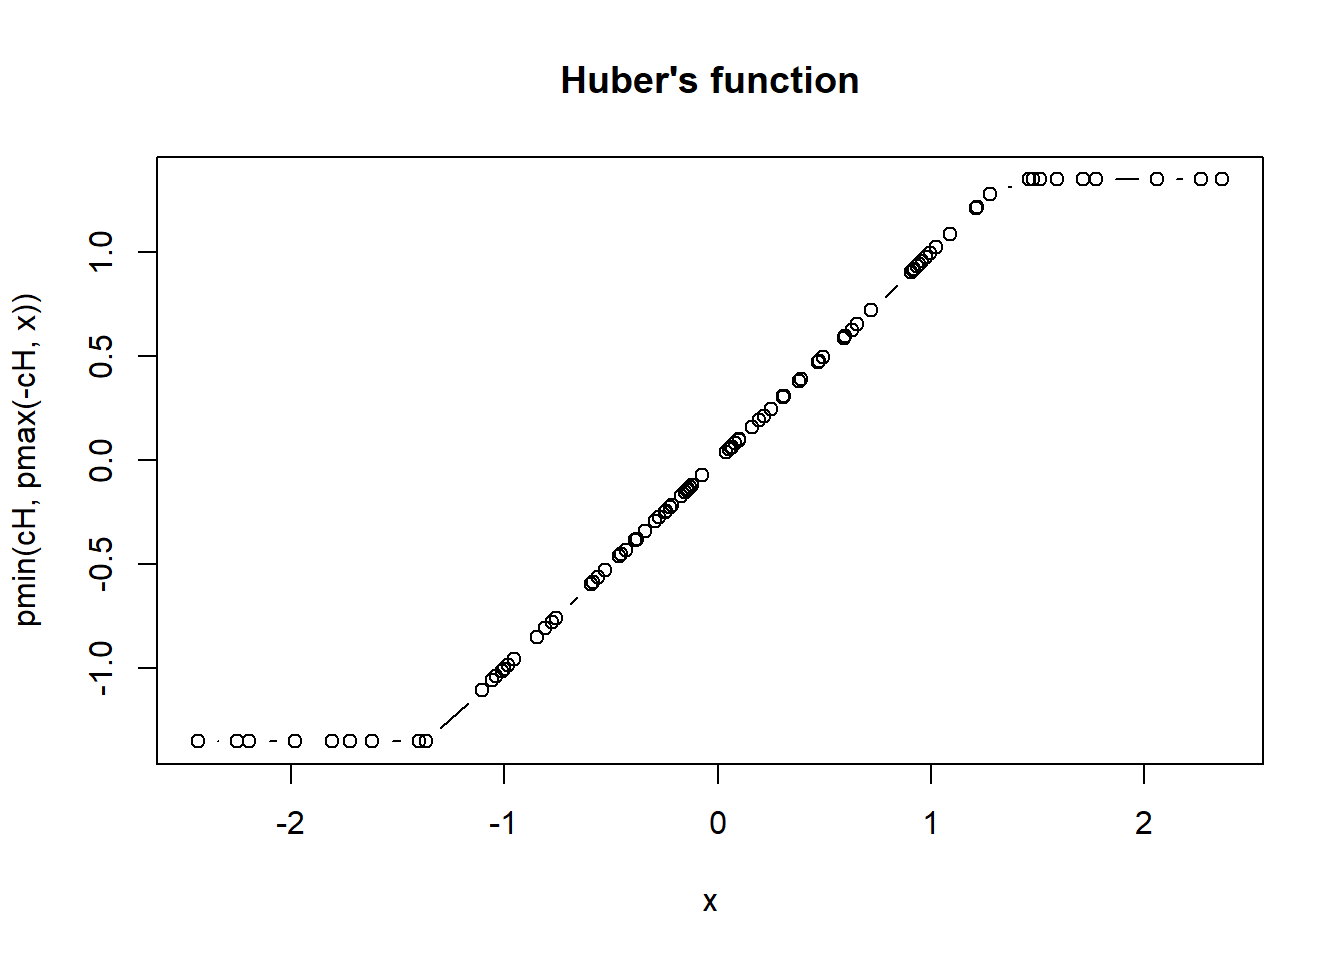
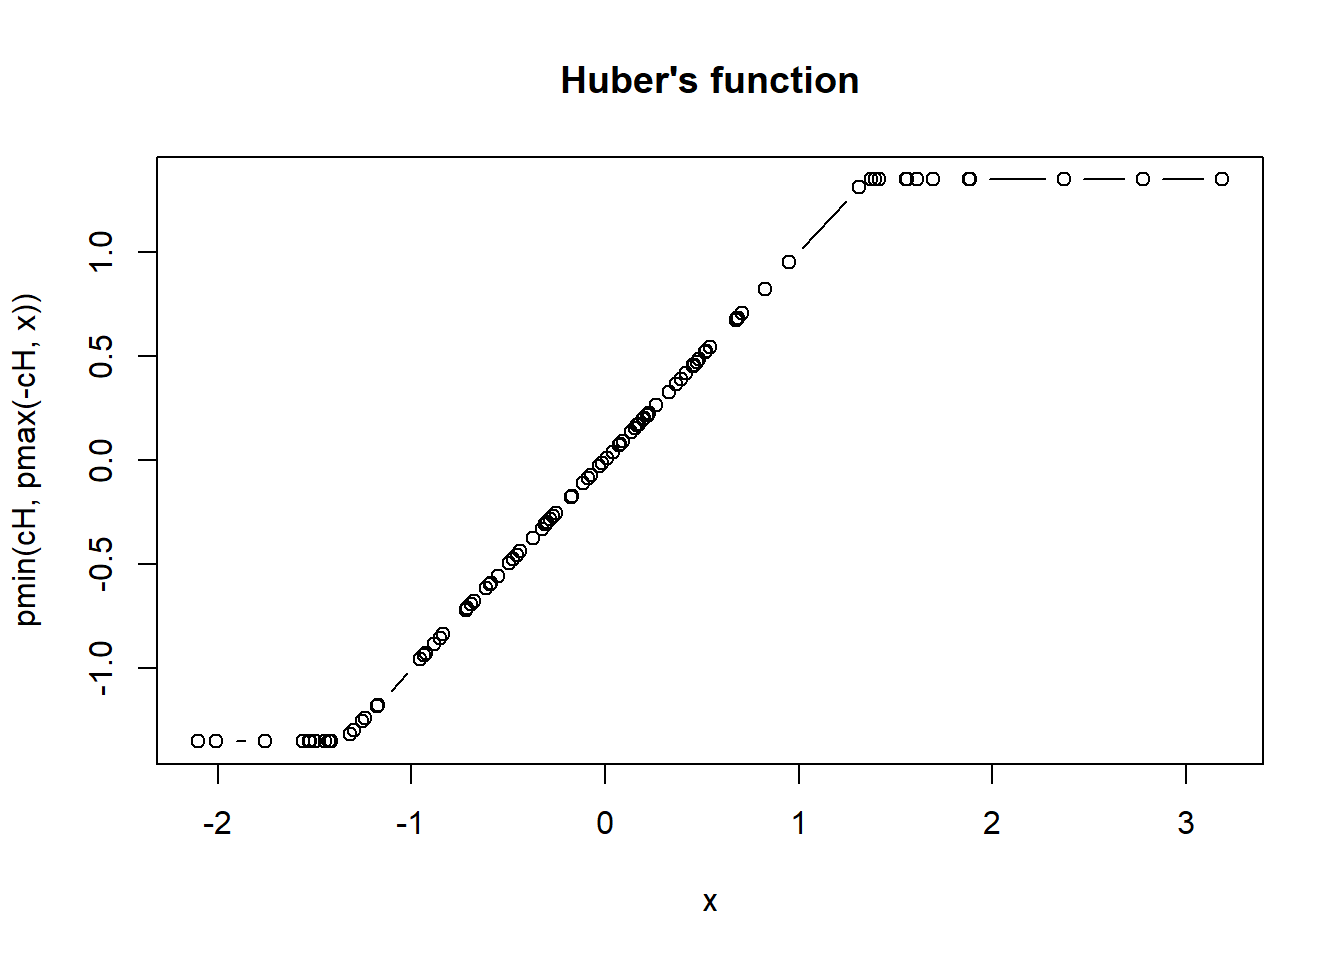
ggplot test3

diff --git a/docs/intro.html b/docs/intro.html
@@ -323,11 +323,11 @@ Tente atribuir “Engenharia Agrícola”em x.</p>
 ## min&gt; x &lt;- sort(rnorm(100));  cH &lt;- 1.35
 ## 
 ## min&gt; pmin(cH, quantile(x)) # no names
-## [1] -2.43558245 -0.45479514  0.05790952  0.76696993  1.35000000
+## [1] -2.1030672 -0.7130723 -0.0499074  0.4615057  1.3500000
 ## 
 ## min&gt; pmin(quantile(x), cH) # has names
-##          0%         25%         50%         75%        100% 
-## -2.43558245 -0.45479514  0.05790952  0.76696993  1.35000000 
+##         0%        25%        50%        75%       100% 
+## -2.1030672 -0.7130723 -0.0499074  0.4615057  1.3500000 
 ## 
 ## min&gt; plot(x, pmin(cH, pmax(-cH, x)), type = &quot;b&quot;, main =  &quot;Huber&#39;s function&quot;)</code></pre>
 <p><img src="TudodoR_files/figure-html/unnamed-chunk-14-1.png" width="672" /></p>
